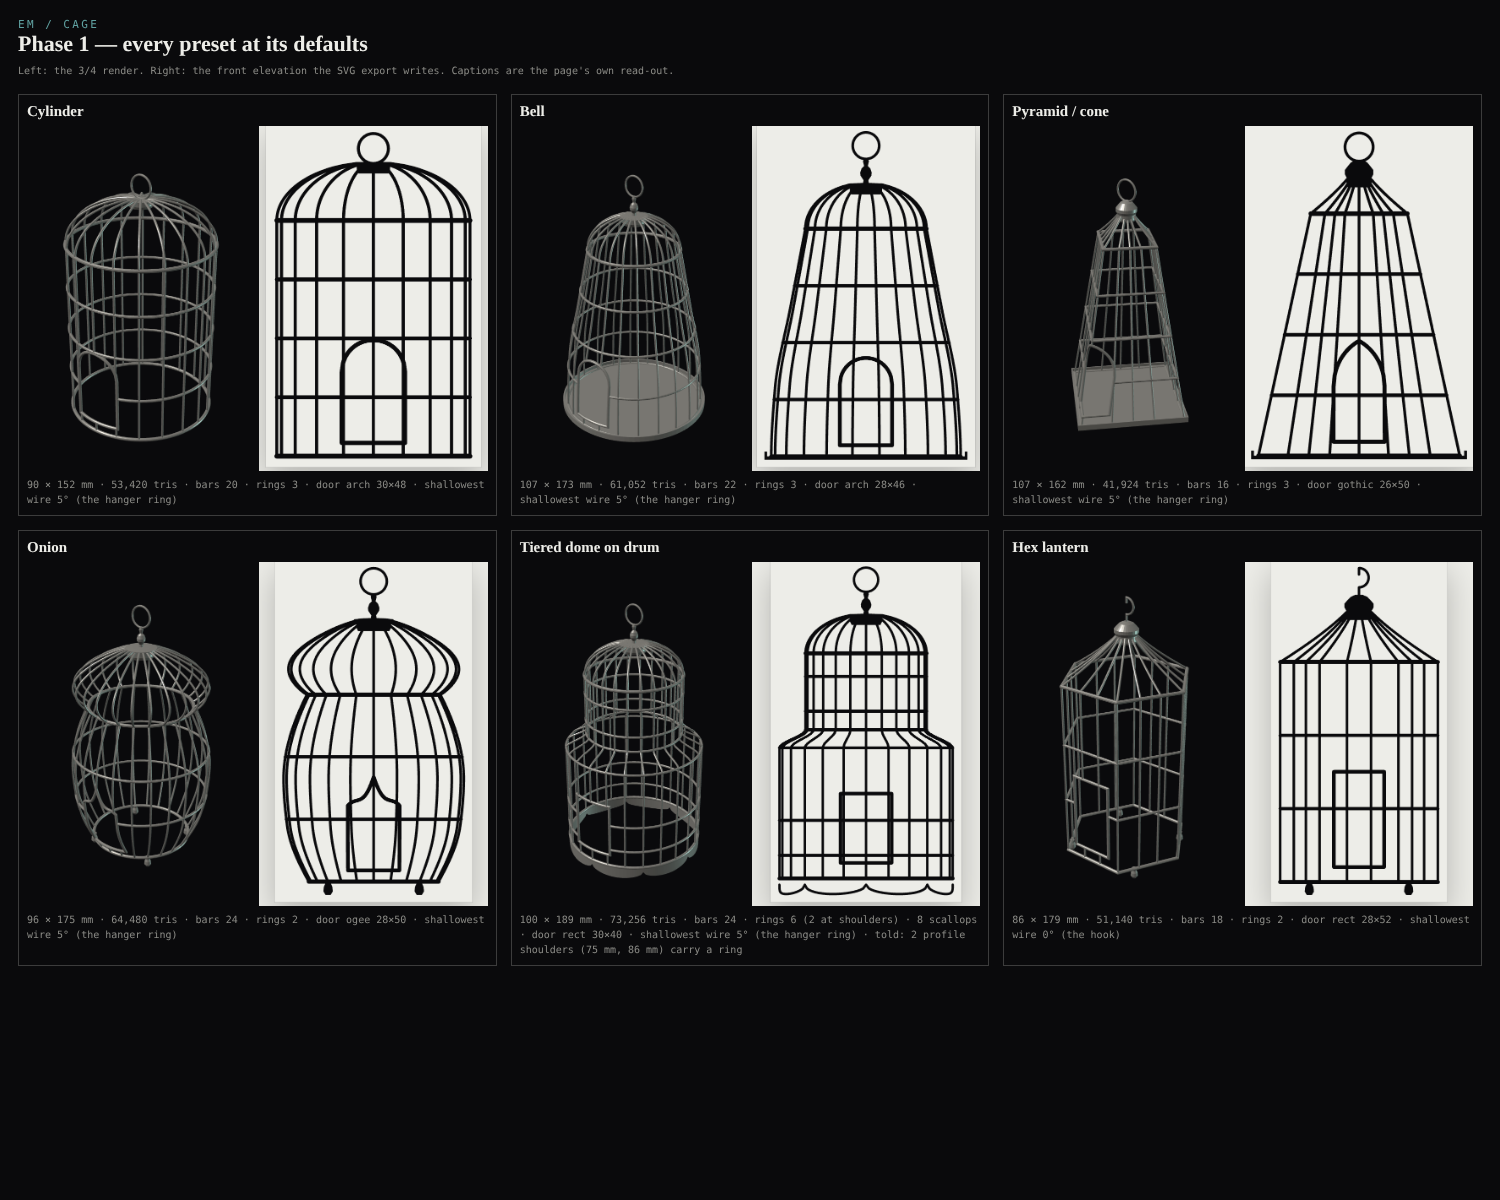
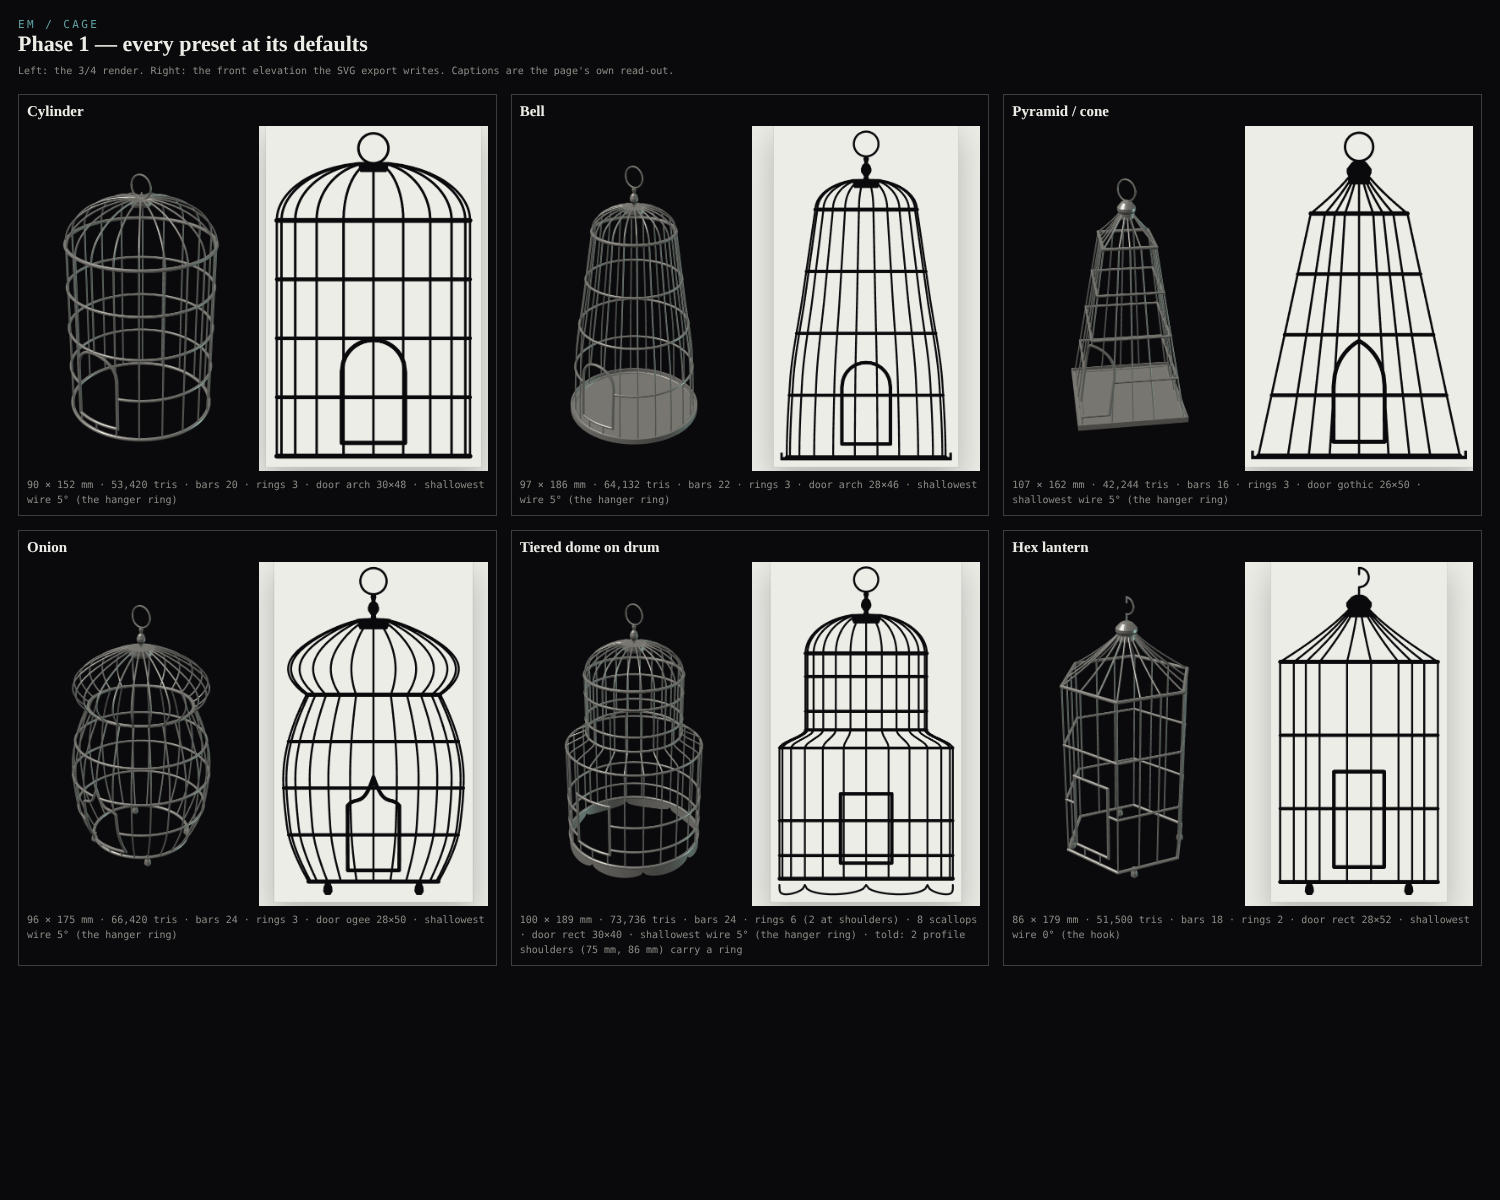
Cage default tweak: the bell at 90 × 140 is the default, 1.1 mm bars, a neck ring on the onion (#476)
Eva's rulings (Oct 29, second round), defaults and presets only, no new control: DEFAULTS is the bell preset (90 W x 140 H, dome 0.6) with every registry slider default moved to the bell's value (C0c); the default bar is 1.1 mm on the registry row and every preset, above the 1.0 mm floor so nothing is clamped (C0d); the onion carries three rings, the upper at 0.75 H in its neck taper (C0e). verify-cage 455/455 + 13/13 mutants; verify-cage-page 14/14 + 4/4; docs/cage-phase-1.md s2 re-measured and s6 added; the sheet re-rendered.

diff --git a/cage-geometry.js b/cage-geometry.js
@@ -73,28 +73,28 @@ const notFlat = (p) => p.topShape !== 'flat';
 const hasDoor = (p) => p.doorShape !== 'none';
 
 export const PARAM_SPEC = [
-  C('preset', 'body', 'Preset', ['custom', ...PRESET_IDS].map((k) => [k, PRESET_LABELS[k]]), 'cylinder'),
+  C('preset', 'body', 'Preset', ['custom', ...PRESET_IDS].map((k) => [k, PRESET_LABELS[k]]), 'bell'),
   R('widthMm', 'body', 'Width', 40, 160, 1, 90, 'mm'),
-  R('heightMm', 'body', 'Body height', 40, 240, 1, 110, 'mm'),
+  R('heightMm', 'body', 'Body height', 40, 240, 1, 140, 'mm'),
   C('sides', 'body', 'Cross-section', [['0', 'round'], ['4', '4 sides'], ['6', '6 sides'], ['8', '8 sides']], '0'),
   C('topShape', 'top', 'Top', [['flat', 'flat'], ['dome', 'dome'], ['spire', 'point / spire'], ['onion', 'onion']], 'dome'),
   R('topHeight', 'top', 'Top height (× top radius)', 0.2, 1.6, 0.05, 0.6, '', notFlat),
-  R('barCount', 'bars', 'Bars', 6, 48, 1, 20),
-  R('barMm', 'bars', 'Bar thickness', 0.8, 3, 0.1, 1.4, 'mm'),
+  R('barCount', 'bars', 'Bars', 6, 48, 1, 22),
+  R('barMm', 'bars', 'Bar thickness', 0.8, 3, 0.1, 1.1, 'mm'),
   B('barsConverge', 'bars', 'bars converge at the apex (off: end at the top ring)', true, notFlat),
   R('ringCount', 'rings', 'Rings between base and top', 0, 8, 1, 3),
   C('ringPlace', 'rings', 'Placement', [['even', 'even'], ['clustered', 'clustered toward the ends']], 'even'),
   R('ringMm', 'rings', 'Ring thickness', 0.8, 4, 0.1, 1.8, 'mm'),
   C('doorShape', 'door', 'Door', [['none', 'none'], ['rect', 'rectangle'], ['arch', 'round arch'], ['gothic', 'gothic point'], ['ogee', 'ogee']], 'arch'),
-  R('doorWidth', 'door', 'Door width', 10, 90, 1, 30, 'mm', hasDoor),
-  R('doorHeight', 'door', 'Door height', 10, 180, 1, 48, 'mm', hasDoor),
-  R('doorY', 'door', 'Door position (bottom, of the body height)', 0, 1, 0.01, 0.1, '', hasDoor),
+  R('doorWidth', 'door', 'Door width', 10, 90, 1, 28, 'mm', hasDoor),
+  R('doorHeight', 'door', 'Door height', 10, 180, 1, 46, 'mm', hasDoor),
+  R('doorY', 'door', 'Door position (bottom, of the body height)', 0, 1, 0.01, 0.08, '', hasDoor),
   R('doorFrameMm', 'door', 'Door frame thickness', 1, 4, 0.1, 2.0, 'mm', hasDoor),
-  C('baseStyle', 'base', 'Base', [['ring', 'plain ring'], ['tray', 'tray'], ['skirt', 'scalloped skirt'], ['feet', 'feet']], 'ring'),
+  C('baseStyle', 'base', 'Base', [['ring', 'plain ring'], ['tray', 'tray'], ['skirt', 'scalloped skirt'], ['feet', 'feet']], 'tray'),
   R('skirtMm', 'base', 'Skirt depth', 4, 20, 0.5, 9, 'mm', (p) => p.baseStyle === 'skirt'),
   R('scallopCount', 'base', 'Scallops (built as a divisor of the bar count, cusps on bars)', 2, 24, 1, 8, '', (p) => p.baseStyle === 'skirt'),
   R('footCount', 'base', 'Feet', 3, 8, 1, 4, '', (p) => p.baseStyle === 'feet'),
-  C('hanger', 'hanger', 'Hanger', [['none', 'none'], ['ring', 'ring'], ['hook', 'hook'], ['finial', 'finial + ring']], 'ring'),
+  C('hanger', 'hanger', 'Hanger', [['none', 'none'], ['ring', 'ring'], ['hook', 'hook'], ['finial', 'finial + ring']], 'finial'),
   R('hangerMm', 'hanger', 'Hanger size', 4, 16, 0.5, 7, 'mm', (p) => p.hanger !== 'none'),
   R('frameRingMult', 'fine', 'Base and top ring (× ring)', 1, 2, 0.05, 1.25),
   R('collarMult', 'fine', 'Apex collar (× the radius the bars meet it at)', 1, 2, 0.05, 1.0, '', notFlat),
@@ -104,17 +104,21 @@ export const PRESET_FIELD_IDS = PARAM_SPEC.filter((s) => s.section !== 'print' &
 
 /* THE PRESETS — whole states, not proportions: picking one writes every field
    it names and the profile; editing any of them afterwards makes the preset
-   'custom' (the page does that; this file only says what a preset IS). */
+   'custom' (the page does that; this file only says what a preset IS).
+   THE DEFAULT IS THE BELL (Eva, Oct 29, second round): 90 W × 140 H, dome 0.6 — an antique
+   wrought cage, clearly taller than wide — on 1.1 mm bars, which every preset carries as the
+   default bar. 1.1 sits above MIN_FEATURE_MM (1.0), so no floor binds on it. The onion carries
+   three rings, the upper one (0.75 H) in its neck taper. */
 export const PRESETS = {
-  cylinder: { profile: P([[0, 1], [1, 1]]), sides: '0', topShape: 'dome', topHeight: 0.6, barCount: 20, barMm: 1.4, barsConverge: true, ringCount: 3, ringPlace: 'even', ringMm: 1.8, doorShape: 'arch', doorWidth: 30, doorHeight: 48, doorY: 0.1, baseStyle: 'ring', hanger: 'ring', widthMm: 90, heightMm: 110 },
-  bell: { profile: P([[0, 1], [0.3, 0.96], [0.65, 0.8], [1, 0.64]]), sides: '0', topShape: 'dome', topHeight: 0.75, barCount: 22, barMm: 1.4, barsConverge: true, ringCount: 3, ringPlace: 'even', ringMm: 1.8, doorShape: 'arch', doorWidth: 28, doorHeight: 46, doorY: 0.08, baseStyle: 'tray', hanger: 'finial', widthMm: 100, heightMm: 120 },
-  cone: { profile: P([[0, 1], [1, 0.48]]), sides: '4', topShape: 'spire', topHeight: 1.1, barCount: 16, barMm: 1.4, barsConverge: true, ringCount: 3, ringPlace: 'even', ringMm: 1.8, doorShape: 'gothic', doorWidth: 26, doorHeight: 50, doorY: 0.1, baseStyle: 'tray', hanger: 'ring', widthMm: 100, heightMm: 120 },
-  onion: { profile: P([[0, 0.72], [0.3, 0.96], [0.55, 1], [1, 0.74]]), sides: '0', topShape: 'onion', topHeight: 1.15, barCount: 24, barMm: 1.4, barsConverge: true, ringCount: 2, ringPlace: 'even', ringMm: 1.8, doorShape: 'ogee', doorWidth: 28, doorHeight: 50, doorY: 0.12, baseStyle: 'feet', hanger: 'finial', widthMm: 96, heightMm: 100 },
-  tiered: { profile: P([[0, 1], [0.58, 1], [0.66, 0.7], [1, 0.7]]), sides: '0', topShape: 'dome', topHeight: 0.65, barCount: 24, barMm: 1.4, barsConverge: true, ringCount: 4, ringPlace: 'clustered', ringMm: 1.8, doorShape: 'rect', doorWidth: 30, doorHeight: 40, doorY: 0.1, baseStyle: 'skirt', scallopCount: 8, hanger: 'finial', widthMm: 100, heightMm: 130 },
-  hexLantern: { profile: P([[0, 1], [1, 1]]), sides: '6', topShape: 'spire', topHeight: 0.85, barCount: 18, barMm: 1.4, barsConverge: true, ringCount: 2, ringPlace: 'even', ringMm: 1.8, doorShape: 'rect', doorWidth: 28, doorHeight: 52, doorY: 0.12, baseStyle: 'feet', hanger: 'hook', widthMm: 86, heightMm: 120 },
+  cylinder: { profile: P([[0, 1], [1, 1]]), sides: '0', topShape: 'dome', topHeight: 0.6, barCount: 20, barMm: 1.1, barsConverge: true, ringCount: 3, ringPlace: 'even', ringMm: 1.8, doorShape: 'arch', doorWidth: 30, doorHeight: 48, doorY: 0.1, baseStyle: 'ring', hanger: 'ring', widthMm: 90, heightMm: 110 },
+  bell: { profile: P([[0, 1], [0.3, 0.96], [0.65, 0.8], [1, 0.64]]), sides: '0', topShape: 'dome', topHeight: 0.6, barCount: 22, barMm: 1.1, barsConverge: true, ringCount: 3, ringPlace: 'even', ringMm: 1.8, doorShape: 'arch', doorWidth: 28, doorHeight: 46, doorY: 0.08, baseStyle: 'tray', hanger: 'finial', widthMm: 90, heightMm: 140 },
+  cone: { profile: P([[0, 1], [1, 0.48]]), sides: '4', topShape: 'spire', topHeight: 1.1, barCount: 16, barMm: 1.1, barsConverge: true, ringCount: 3, ringPlace: 'even', ringMm: 1.8, doorShape: 'gothic', doorWidth: 26, doorHeight: 50, doorY: 0.1, baseStyle: 'tray', hanger: 'ring', widthMm: 100, heightMm: 120 },
+  onion: { profile: P([[0, 0.72], [0.3, 0.96], [0.55, 1], [1, 0.74]]), sides: '0', topShape: 'onion', topHeight: 1.15, barCount: 24, barMm: 1.1, barsConverge: true, ringCount: 3, ringPlace: 'even', ringMm: 1.8, doorShape: 'ogee', doorWidth: 28, doorHeight: 50, doorY: 0.12, baseStyle: 'feet', hanger: 'finial', widthMm: 96, heightMm: 100 },
+  tiered: { profile: P([[0, 1], [0.58, 1], [0.66, 0.7], [1, 0.7]]), sides: '0', topShape: 'dome', topHeight: 0.65, barCount: 24, barMm: 1.1, barsConverge: true, ringCount: 4, ringPlace: 'clustered', ringMm: 1.8, doorShape: 'rect', doorWidth: 30, doorHeight: 40, doorY: 0.1, baseStyle: 'skirt', scallopCount: 8, hanger: 'finial', widthMm: 100, heightMm: 130 },
+  hexLantern: { profile: P([[0, 1], [1, 1]]), sides: '6', topShape: 'spire', topHeight: 0.85, barCount: 18, barMm: 1.1, barsConverge: true, ringCount: 2, ringPlace: 'even', ringMm: 1.8, doorShape: 'rect', doorWidth: 28, doorHeight: 52, doorY: 0.12, baseStyle: 'feet', hanger: 'hook', widthMm: 86, heightMm: 120 },
 };
 
-export const DEFAULTS = Object.freeze({ ...Object.fromEntries(PARAM_SPEC.map((s) => [s.id, s.default])), profile: PRESETS.cylinder.profile });
+export const DEFAULTS = Object.freeze({ ...Object.fromEntries(PARAM_SPEC.map((s) => [s.id, s.default])), ...PRESETS.bell, preset: 'bell' });
 export const defaultParams = () => ({ ...DEFAULTS, profile: cloneCurve(DEFAULTS.profile) });
 export function applyPreset(params, id) {
   const pr = PRESETS[id]; if (!pr) throw new Error(`no preset ${id}`);

diff --git a/docs/cage-phase-1.md b/docs/cage-phase-1.md
@@ -85,15 +85,18 @@ The dome ribs read 25–60° at the collar; a flat ring is a bridge for FDM and 
 
 | Preset | overall mm | triangles | STL | bars | door |
 |---|---|---|---|---|---|
-| Cylinder (default) | 90 × 152 | 53,420 | 2.5 MiB | 20 | arch 30×48 |
-| Bell | 107 × 173 | 61,052 | | 22 | arch 28×46 |
-| Pyramid / cone | 107 × 162 | 41,924 | | 16 (4-gon) | gothic 26×50 |
-| Onion | 96 × 175 | 64,480 | | 24 | ogee 28×50 |
-| Tiered dome on drum | 100 × 189 | 73,256 | | 24 | rect 30×40 |
-| Hex lantern | 86 × 179 | 51,140 | | 18 (6-gon) | rect 28×52 |
+| Bell (default) | 97 × 186 | 64,132 | 3.1 MiB | 22 | arch 28×46 |
+| Cylinder | 92 × 152 | 53,420 | 2.5 MiB | 20 | arch 30×48 |
+| Pyramid / cone | 107 × 162 | 42,244 | 2.0 MiB | 16 (4-gon) | gothic 26×50 |
+| Onion | 98 × 175 | 66,420 | 3.2 MiB | 24 | ogee 28×50 |
+| Tiered dome on drum | 102 × 189 | 73,736 | 3.5 MiB | 24 | rect 30×40 |
+| Hex lantern | 89 × 179 | 51,500 | 2.5 MiB | 18 (6-gon) | rect 28×52 |
 
-(After the Oct 29 rulings; the tiered cage gained its two shoulder rings. The default's
-collar boss reads r 7.6 mm, bead 8.7 mm, the twenty 1.4 mm bars meeting it 2.40 mm apart.)
+(After the Oct 29 default tweak, §6: every preset on 1.1 mm bars, the bell at 90 × 140 as the
+default, the onion with its third ring. The default's collar boss reads r 7.35 mm, bead 8.38 mm,
+the twenty-two 1.1 mm bars meeting it 2.10 mm apart — `2·rBar + floor`, the floor's share now
+the larger half of the pitch. The overall box is the body plus the base and the finial. Before
+this round the cylinder was the default at 53,420 and the bell read 61,052 at 100 × 120.)
 
 Worst reachable: 48 bars × 240 mm ≈ 230 k triangles. Builds are ~40 ms; a slider drag rebuilds
 on the next frame.
@@ -144,7 +147,8 @@ four mutants of `cage.js`.
    so the door keeps its jambs. *Undo*: `doorTop`.
 7. **The SVG draws every wire, back and front** (a cage is its wires), each at its own
    diameter, solids as silhouettes; paper `#EDEDE8`, ink `#0A0A0C`.
-8. **Default size 90 × 110 mm body**, bars 1.4 mm, rings 1.8 mm, frame rings 1.25×. (Ruling 6
+8. **Default size 90 × 110 mm body**, bars 1.4 mm, rings 1.8 mm, frame rings 1.25×. **[Oct 29,
+   second round: SUPERSEDED by §6 — the default is the BELL at 90 × 140 on 1.1 mm bars.]** (Ruling 6
    left the size bracket unfilled and asked only that the default be taller than wide: 90 × 110
    is, so it stands.)
 9. **The shoulder threshold `SHOULDER_DEG` = 25°** (ruling 5 asked for a ring at every
@@ -166,6 +170,7 @@ four mutants of `cage.js`.
 5. **Every profile step/shoulder auto-places a ring**: yes. **Applied** (§1, §4.9).
 6. **Default**: the bracket (keep 90 × 110, or change to ___) was left unfilled; the one
    constraint given is that the default be taller than wide. 90 × 110 is, and **stands**.
+   **[Superseded the same day by the default tweak, §6.]**
 7. **Print process**: the bracket (SLS PA12 at 1.0 mm / other ___) was left unfilled; the one
    instruction was that the floor be a single named constant. It is — `MIN_FEATURE_MM` is the
    only floor, every wire and the skirt read it — and **SLS PA12 at 1.0 mm stays the assumption**.
@@ -180,3 +185,32 @@ four mutants of `cage.js`.
    through the band's two edge rings — developable, a 1-chord error of the profile's sagitta
    across the band's height) and unwrap onto that; the cylinder and the polygon faces are
    exact. Recorded here so Phase 2 does not rediscover it.
+
+## 6. The default tweak (Oct 29, second round) — defaults and presets only, no new control
+
+Three rulings, each a value in `cage-geometry.js`'s registry or preset table and nowhere else.
+
+1. **The default cage is the BELL at 90 W × 140 H, dome 0.6.** `DEFAULTS` is the registry's
+   defaults with `PRESETS.bell` spread over them and `preset: 'bell'`, so the page opens on the
+   bell and the preset menu says so; every registry slider default was moved to the bell's own
+   value too (bars 22, door 28 × 46 at 0.08, tray base, finial hanger), and C0c holds the two
+   owners equal so they cannot drift. The bell preset itself moved 100 × 120 / dome 0.75 →
+   90 × 140 / dome 0.6, so picking Bell after a Reset is the identity. Overall 97 × 186 mm with
+   the tray and finial — clearly taller than wide. The cylinder is unchanged as a preset.
+2. **The default bar is 1.1 mm**, on the registry row and on every preset (all six carried the
+   old 1.4). **1.1 sits above `MIN_FEATURE_MM` (1.0), so no floor binds on it** — C0d asserts
+   that, and C13's 0.8 mm bar is still raised and told. The collar pitch is `2·rBar + floor` =
+   2.10 mm against the old 2.80 (the floor is now the larger half), so the apex boss shrinks
+   from r 7.6 to 7.35 mm on the default's 22 bars.
+3. **The onion gets a ring at the neck**: `ringCount` 2 → 3, even placement, so the upper ring
+   lands at 0.75 H where the profile has fallen from its widest (0.55 H, radius 1.00) toward the
+   top (0.74). The bracket offered "add a ring at the neck / leave as is"; it was read as the
+   first. A decision made without a ruling inside it: three even rings rather than `clustered`
+   (which would have put the upper ring at 0.805 H and moved the lower one to 0.195 H as well) —
+   literally one ring added, nothing else moved; one field to change back.
+
+Measured: C0–C16 455 of 455 (four new C0 clauses), 13 of 13 mutants; the page gate 14 of 14, 4 of
+4. The cone's and hex lantern's triangle counts move only through the thinner bar (the sweep's
+sector count does not change, so the delta is the tube's vertex count in the collar pack); the
+bell's +3,080 is 20 mm more bar. The sheet `docs/img/cage-phase-1.png` is re-rendered on these
+defaults. No bar of any preset is floored.

diff --git a/CLAUDE.md b/CLAUDE.md
@@ -11926,7 +11926,9 @@ doc): bars meet a turned collar BOSS one printable gap apart (`2·rBar + floor`,
 1.05-diameter pack is gone) and the hanger stands on it; every profile shoulder (a knot whose
 chords turn by `SHOULDER_DEG` 25° in mm, `profileShoulders` — PCHIP is C1 so one-sided slopes
 cannot see a step) auto-places a ring; the skirt's `scallopCount` is built as the nearest divisor
-of the bar count so every cusp sits on a bar; the 90 × 110 default and the single
+of the bar count so every cusp sits on a bar; the 90 × 110 default **[Oct 29, second round: the
+default is the BELL at 90 × 140, dome 0.6, on 1.1 mm bars (above the 1.0 floor, nothing clamped); the
+onion has three rings, the upper in its neck taper — §6 of the doc]** and the single
 `MIN_FEATURE_MM` floor (SLS PA12 assumed) stand, both brackets having been left unfilled.
 Phase 2 (decorative ring bands and door infill from /frame's filigree) is NOT built and waits on
 /frame's ornament rework; a curved band will be approximated as a cone segment (doc §5.10).**
